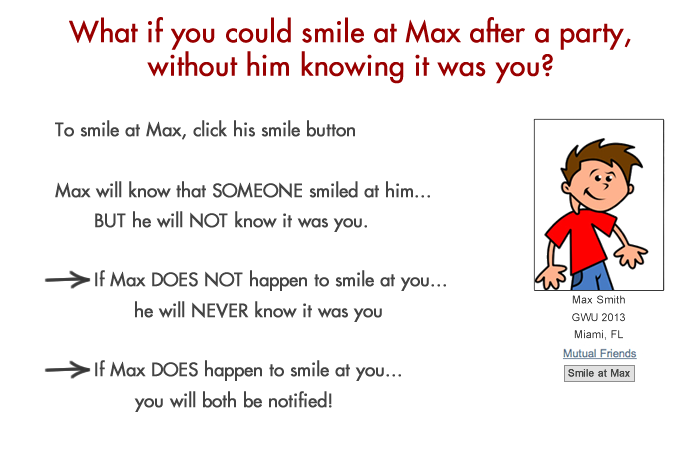
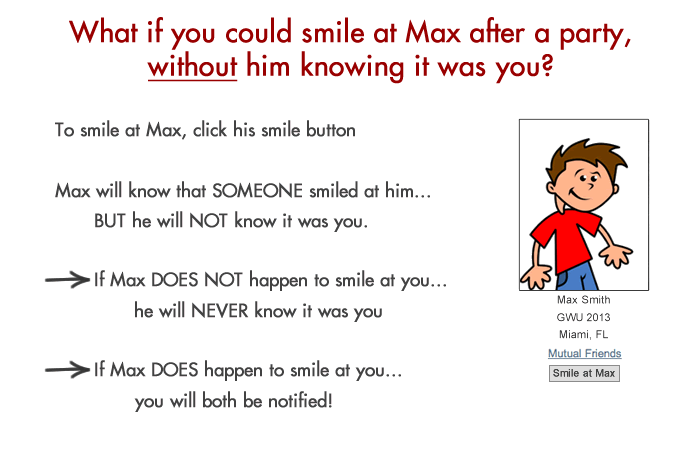
added underline to smile help

Changed region(s): [[0.72, 0.3111, 0.93, 0.8711], [0.21, 0.1556, 0.33, 0.1867], [0.93, 0.6222, 0.96, 0.6533]]

diff --git a/whowentout/modules/smile/views/smile_help.view.php b/whowentout/modules/smile/views/smile_help.view.php
@@ -1,8 +1,8 @@
 <div class="smile_help_container help_container">
     <?php if (current_user()->gender == 'M'): ?>
-        <img src="/assets/images/smile_help_m.png?version=8" />
+        <img src="/assets/images/smile_help_m.png?version=9" />
     <?php else: ?>
-        <img src="/assets/images/smile_help_f.png?version=8" />
+        <img src="/assets/images/smile_help_f.png?version=9" />
     <?php endif; ?>
 </div>
     
